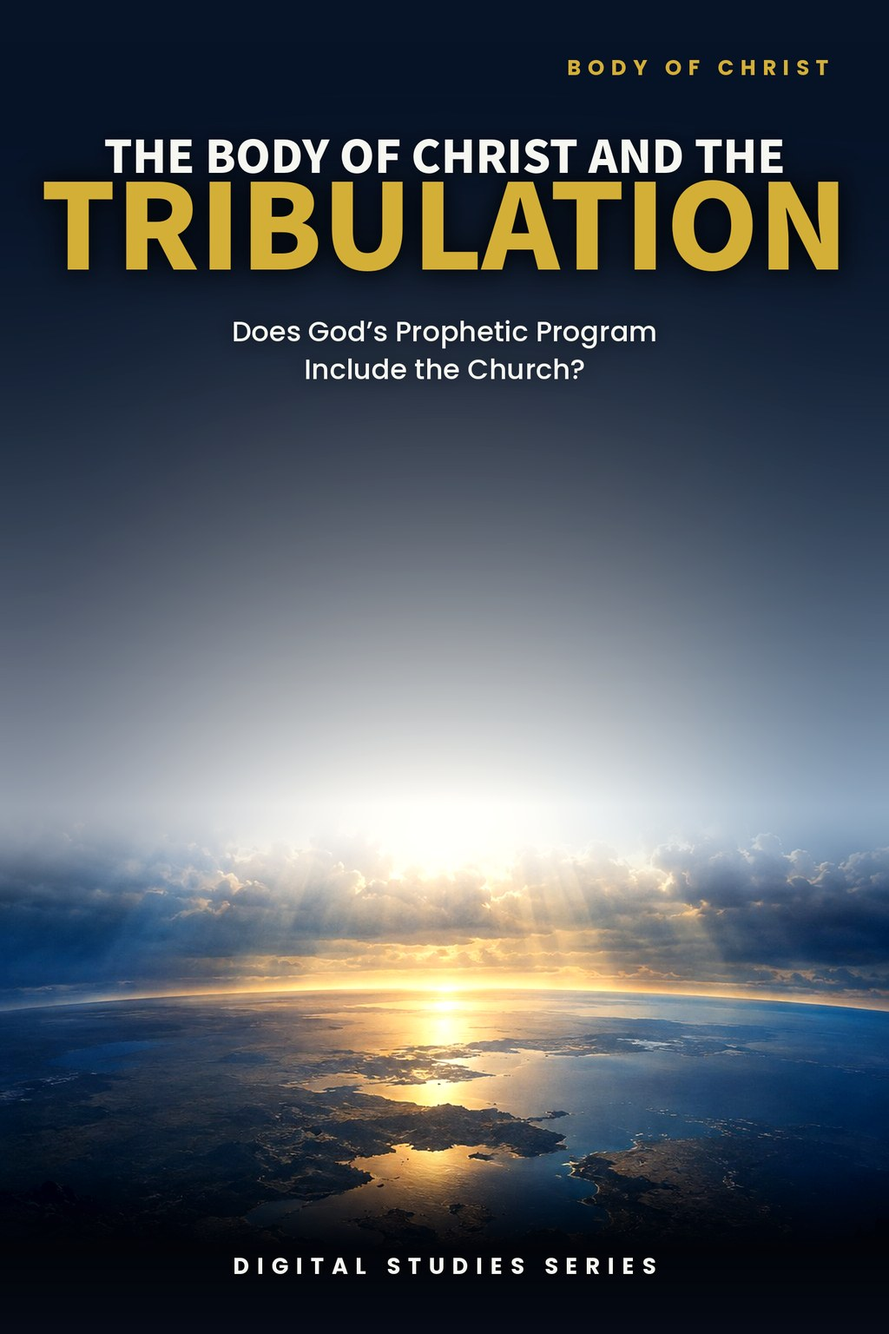
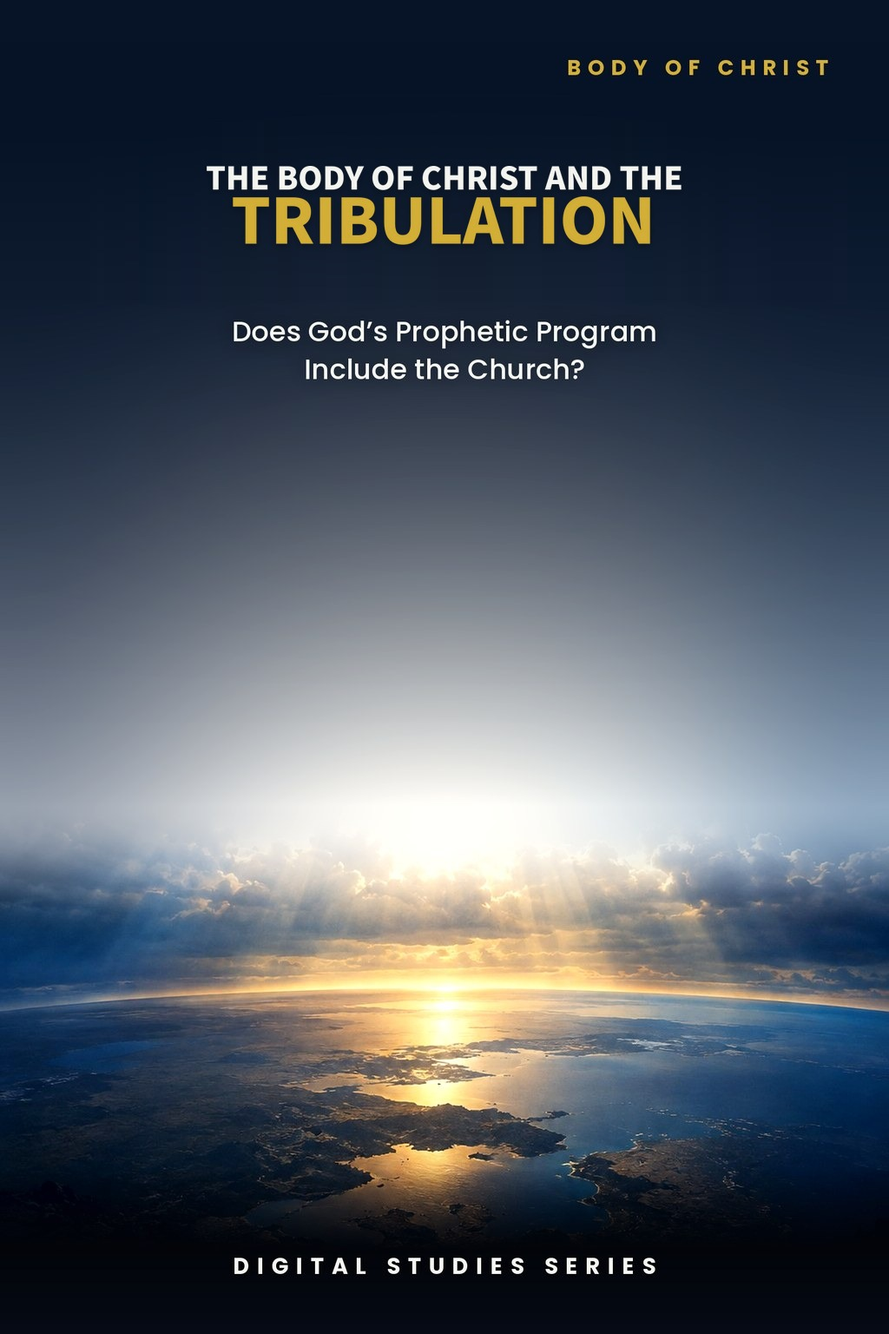
Study 3 retrofit: 16 pages, new cover title, previews 2/3/10, copy wording; trackers v1.32/v1.125
Claude-Session: https://claude.ai/code/session_01KcENxFzE91mCRyTPWhcwnE

Changed region(s): [[0.0312, 0.0938, 0.9688, 0.2188]]

diff --git a/study-03-the-body-of-christ-and-the-tribulation.html b/study-03-the-body-of-christ-and-the-tribulation.html
@@ -22,7 +22,7 @@
 <body class="study-detail-page">
 <header class="site-header"><div class="wrap nav"><a aria-label="Zay-Marie Press home" class="logo" href="index.html"><img alt="Zay-Marie Press" height="238" src="assets/zay-marie-press-logo-hq.png" width="420"/></a><button aria-controls="primary-nav" aria-expanded="false" class="menu-toggle" type="button">MENU</button><nav aria-label="Primary navigation" class="primary-nav" id="primary-nav"><a href="index.html">HOME</a><a href="books.html">BOOKS</a><a href="series.html">SERIES</a><a class="active" aria-current="page" href="digital-studies.html">DIGITAL STUDIES</a><a href="biblical-hermeneutics-course.html">COURSE</a><a href="about.html">ABOUT</a><a href="resources.html">RESOURCES</a><a href="contact.html">CONTACT</a></nav></div></header>
 <main>
-<section class="detail-hero"><div class="wrap detail-hero-grid"><div class="detail-cover"><img src="assets/study-03-cover.jpg" alt="The Body of Christ and the Tribulation — Study 3 cover"/></div><div><div class="eyebrow">STUDY 3 · DIGITAL STUDY</div><h1>The Body of Christ and the Tribulation</h1><p class="detail-subtitle">Does God’s Prophetic Program Include the Church?</p><p class="detail-kicker">A Biblical Examination of Programmatic Identity, Prophetic Wrath, and the Body’s Heavenly Hope</p><p class="detail-copy">Examine Israel’s future prophetic Tribulation alongside the Mystery concerning the Body of Christ revealed through Paul. This study establishes the identity of Daniel’s seventieth week, Jacob’s Trouble, and the Day of the Lord before tracing the Body’s gathering, deliverance from coming wrath, heavenly calling, and place within the Acts Overlap framework.</p><div class="detail-buyline"><span class="detail-price">$5.99</span><span class="detail-format">Digital PDF</span><span class="detail-button pending" aria-disabled="true">Get the Study</span></div></div></div></section>
+<section class="detail-hero"><div class="wrap detail-hero-grid"><div class="detail-cover"><img src="assets/study-03-cover.jpg" alt="The Body of Christ and the Tribulation — Study 3 cover"/></div><div><div class="eyebrow">STUDY 3 · DIGITAL STUDY</div><h1>The Body of Christ and the Tribulation</h1><p class="detail-subtitle">Does God’s Prophetic Program Include the Church?</p><p class="detail-kicker">A Biblical Examination of Programmatic Identity, Prophetic Wrath, and the Body’s Heavenly Hope</p><p class="detail-copy">Examine Israel’s future prophetic Tribulation alongside the Mystery concerning the Body of Christ revealed through Paul. This study establishes the identity of Daniel’s seventieth week, Jacob’s Trouble, and the Day of the Lord before tracing the Body’s gathering, deliverance from coming wrath, heavenly calling, and place within the Acts Overlap.</p><div class="detail-buyline"><span class="detail-price">$5.99</span><span class="detail-format">Digital PDF</span><span class="detail-button pending" aria-disabled="true">Get the Study</span></div></div></div></section>
 <section class="detail-section"><div class="wrap"><div class="eyebrow">ABOUT THIS STUDY</div><h2>Does the Tribulation Belong to the Body of Christ?</h2><p class="lead">The Tribulation question is often approached first as a question of timing: before, during, or after. This study begins one step earlier by asking whom Scripture identifies with the coming prophetic period and to which revealed program it belongs.</p><p class="lead">Daniel’s seventieth week, Jacob’s Trouble, the Day of the Lord, Matthew 24, and Revelation are examined in their prophetic setting. The study then turns to Paul’s revelation concerning the Body’s gathering, its deliverance from coming wrath, its heavenly calling, and the Acts 9–28 overlap to determine how those truths relate without merging Prophecy and Mystery.</p><p class="lead">This is not a study of Daniel’s seventieth week itself, which Study 10 establishes in its own right, nor of the “one taken, one left” scene in Matthew 24 and Luke 17, which Study 29 examines on its own terms. Its task is narrower: to ask which revealed program — Israel’s Prophecy or the Body’s Mystery — actually governs the coming Tribulation, and whether the Body’s own hope belongs inside that period at all.</p><div class="study-distinction"><h3>How These Studies Relate</h3><p>Study 3 asks whether the Body of Christ belongs in Israel’s coming prophetic Tribulation.</p><p><a href="study-10-daniels-seventieth-week.html">Study 10 — Daniel’s Seventieth Week</a> Establish from Daniel 9 whose people and city the seventieth week concerns; that starting point sharpens the question of whether the Body is the subject of that prophetic period.</p><p><a href="study-29-one-taken-and-the-other-left.html">Study 29 — One Taken and the Other Left</a> Test a frequently cited Tribulation passage in Matthew 24 and Luke 17. Its separation scene can then be interpreted without assuming it describes the Body’s gathering.</p><p class="connection-guide-link"><a href="study-connections.html#study-03">Explore the full connection guide for Study 3 →</a></p></div></div></section>
 <section class="detail-section soft"><div class="wrap"><div class="eyebrow">WHAT YOU’LL STUDY</div><h2>Establish Identity Before Constructing the Timeline</h2><div class="study-points">
 <div class="study-point"><h3>Israel’s Future Prophetic Tribulation</h3><p>Distinguish ordinary Christian suffering from Daniel’s seventieth week, Jacob’s Trouble, the Day of the Lord, and the great Tribulation.</p></div>
@@ -30,7 +30,7 @@
 <div class="study-point"><h3>The Body Is Not Appointed to Wrath</h3><p>Follow Paul’s cumulative argument in 1 Thessalonians: waiting for the Son, gathering to Christ, the Day of the Lord, and deliverance from coming wrath.</p></div>
 <div class="study-point"><h3>The Gathering of the Body</h3><p>Work through 1 Thessalonians 4 and 2 Thessalonians 2 carefully, distinguishing explicit statements from disputed interpretive details.</p></div>
 <div class="study-point"><h3>Rapture &amp; Prophetic Second Coming</h3><p>Compare the Body’s gathering with prophetic Second Coming passages while preserving their distinct audiences, movements, purposes, and revelatory settings.</p></div>
-<div class="study-point"><h3>Acts Overlap &amp; Prophetic Resumption</h3><p>See how Prophecy and Mystery operate distinctly and concurrently during Acts 9–28 and why suspension at Acts 28 allows Israel’s prophetic program to resume.</p></div>
+<div class="study-point"><h3>Acts Overlap &amp; Prophetic Resumption</h3><p>See how Prophecy and Mystery operate distinctly and concurrently during Acts 9–28 and why the national judicial suspension at Acts 28 allows Israel’s prophetic program to resume.</p></div>
 </div></div></section>
 <section class="detail-section cream"><div class="wrap"><div class="eyebrow">KEY SCRIPTURES</div><h2>Examine the Passages for Yourself</h2><div class="scripture-grid">
 <div class="scripture-card"><h3>Daniel 9:24–27</h3><p>Assigns the seventy weeks to Daniel’s people and holy city, establishing Israel and Jerusalem as the prophetic setting.</p></div>
@@ -46,19 +46,19 @@
 <section class="detail-section soft"><div class="wrap"><div class="eyebrow">A LOOK INSIDE</div><h2>Preview the Study Before You Purchase</h2><p class="preview-instruction">Click any page to enlarge it for reading.</p><div class="preview-grid">
 <div class="preview-card"><a class="preview-image-link" data-preview-lightbox href="assets/study-03-page-2.jpg"><img src="assets/study-03-page-2.jpg" alt="Study 3 interior preview — page 2, Table of Contents"/></a><div class="page-no">Page 2</div><h3>Table of Contents</h3><p>See the full structure of the study, from the introduction through the final synthesis.</p></div>
 <div class="preview-card"><a class="preview-image-link" data-preview-lightbox href="assets/study-03-page-3.jpg"><img src="assets/study-03-page-3.jpg" alt="Study 3 interior preview — page 3, What You Will Learn in This Study"/></a><div class="page-no">Page 3</div><h3>What You Will Learn</h3><p>See the study’s learning goals, including the prophetic identity of the Tribulation, Paul’s cumulative Thessalonian argument, the Rapture as Mystery truth, and the Acts Overlap chronology.</p></div>
-<div class="preview-card"><a class="preview-image-link" data-preview-lightbox href="assets/study-03-page-11.jpg"><img src="assets/study-03-page-11.jpg" alt="Study 3 interior preview — page 11, Rapture and Prophetic Second Coming comparison table"/></a><div class="page-no">Page 11</div><h3>Rapture &amp; Prophetic Second Coming</h3><p>Begin the comparison of the Body’s gathering with the prophetic Second Coming while preserving their distinct audiences, movements, purposes, and revelatory settings.</p></div>
+<div class="preview-card"><a class="preview-image-link" data-preview-lightbox href="assets/study-03-page-10.jpg"><img src="assets/study-03-page-10.jpg" alt="Study 3 interior preview — page 10, Rapture and Prophetic Second Coming comparison table"/></a><div class="page-no">Page 10</div><h3>Rapture &amp; Prophetic Second Coming</h3><p>Begin the comparison of the Body’s gathering with the prophetic Second Coming while preserving their distinct audiences, movements, purposes, and revelatory settings.</p></div>
 </div></div></section>
 <section class="detail-section"><div class="wrap"><div class="eyebrow">WHAT’S INCLUDED</div><h2>A Focused Study Built for<br/>Understanding and Teaching</h2><div class="includes-grid">
-<div class="include-item"><h3>18-Page In-Depth Biblical Study</h3><p>A focused examination of the Tribulation question built from audience, revelatory setting, programmatic identity, and cumulative biblical evidence.</p></div>
+<div class="include-item"><h3>16-Page In-Depth Biblical Study</h3><p>A focused examination of the Tribulation question built from audience, revelatory setting, programmatic identity, and cumulative biblical evidence.</p></div>
 <div class="include-item"><h3>12 Core Teaching Sections</h3><p>Progress from the identity of the prophetic Tribulation through Paul’s teaching on the Body’s gathering, heavenly hope, and Acts Overlap chronology.</p></div>
 <div class="include-item"><h3>Study Summary &amp; Key Distinctions</h3><p>Retain the controlling distinctions between ordinary suffering and prophetic wrath, programmatic identity and chronology, Mystery and Prophecy, and suspension and cancellation.</p></div>
 <div class="include-item"><h3>Scripture-Tracing Exercise</h3><p>Record audience, event or promise, programmatic setting, and each passage’s contribution before consulting the study’s conclusions.</p></div>
 <div class="include-item"><h3>12 Review &amp; Discussion Questions</h3><p>Test comprehension of Daniel’s timetable, the Day of the Lord, Paul’s gathering passages, the Body’s heavenly calling, and Acts Overlap.</p></div>
-<div class="include-item"><h3>Three-Part Teaching Outline</h3><p>A ready framework for identifying the prophetic period, establishing the Body’s expectation, and keeping the two revealed programs distinct.</p></div>
+<div class="include-item"><h3>Three-Part Teaching Outline</h3><p>A ready outline for identifying the prophetic period, establishing the Body’s expectation, and keeping the two revealed programs distinct.</p></div>
 <div class="include-item"><h3>Six Guided Further-Study Investigations</h3><p>Trace prophetic wrath, Daniel’s people and city, the gathering passages, disputed details, the Body’s heavenly calling, and Acts Overlap chronology.</p></div>
-<div class="include-item"><h3>Final Synthesis Exercise</h3><p>Construct a two- to three-page biblical explanation of why the Acts Overlap framework places the Body outside Israel’s future prophetic Tribulation.</p></div>
+<div class="include-item"><h3>Final Synthesis Exercise</h3><p>Construct a two- to three-page biblical explanation of why the Acts Overlap places the Body outside Israel’s future prophetic Tribulation.</p></div>
 </div></div></section>
-<section class="detail-section cream"><div class="wrap"><div class="final-buy"><div><div class="eyebrow">STUDY 3 · DIGITAL STUDY</div><h2>The Body of Christ and the Tribulation</h2><p>18-page digital PDF · For personal use</p></div><div class="final-offer"><div class="detail-price">$5.99</div><span class="detail-button pending" aria-disabled="true">Get the Study</span></div></div><a class="back-link" href="digital-studies.html">← Back to All Digital Studies</a></div></section>
+<section class="detail-section cream"><div class="wrap"><div class="final-buy"><div><div class="eyebrow">STUDY 3 · DIGITAL STUDY</div><h2>The Body of Christ and the Tribulation</h2><p>16-page digital PDF · For personal use</p></div><div class="final-offer"><div class="detail-price">$5.99</div><span class="detail-button pending" aria-disabled="true">Get the Study</span></div></div><a class="back-link" href="digital-studies.html">← Back to All Digital Studies</a></div></section>
 <section class="study-method-course-bridge"><div class="wrap"><div class="study-method-course-panel"><div><div class="eyebrow">BUILD THE INTERPRETIVE METHOD</div><h2>Want More Than a Focused Study?</h2><p>Digital Studies examine particular biblical subjects and difficult passages. The 40-lesson Biblical Hermeneutics course teaches a complete, repeatable method for establishing meaning in context, determining proper assignment, and making responsible application.</p></div><a class="btn btn-primary" href="biblical-hermeneutics-course.html">BIBLICAL HERMENEUTICS COURSE</a></div></div></section></main><div class="preview-lightbox" id="preview-lightbox" role="dialog" aria-modal="true" aria-label="Enlarged study page preview"><button class="preview-lightbox-close" type="button" aria-label="Close enlarged preview">×</button><img src="" alt=""/><div class="preview-lightbox-hint">Scroll to read the full page · Press Esc or click outside the page to close</div></div>
 <footer class="site-footer"><div class="wrap footer-grid"><div class="footer-about"><h3>Zay-Marie Press</h3><p class="footer-tagline"><em>Where the Bible Means What It Says.</em></p><p>Zay-Marie Press is a Christian theological publisher dedicated to producing doctrinally precise, carefully structured biblical resources that equip pastors, teachers, and serious students with clarity, depth, and Scripture-anchored truth.</p><p><a href="https://zaymariepress.com">zaymariepress.com</a><br/><a href="mailto:info@zaymariepress.com">info@zaymariepress.com</a></p></div><div class="footer-column"><h3>Explore</h3><div class="footer-links-stacked"><a href="books.html">Books</a><br/><a href="series.html">Series</a><br/><a href="biblical-hermeneutics-course.html">Course</a><br/><a href="digital-studies.html">Digital Studies</a><br/><a href="resources.html">Resources</a><br/><a href="bible-book-summaries.html">Bible Book Summaries</a><br/><a href="doctrinal-packets.html">Doctrinal Packets</a><br/><a href="historical-drift.html">Historical Drift</a><br/><a href="about.html">About</a><br/><a href="contact.html">Contact</a></div></div><div class="footer-column"><h3>Reader Support</h3><div class="footer-links-stacked"><a href="reader-support.html#faq">FAQ</a><br/><a href="reader-support.html#shipping-returns">Shipping &amp; Returns</a><br/><a href="reader-support.html#digital-downloads">Digital Downloads</a><br/><a href="reader-support.html#contact-support">Contact Support</a></div></div><div class="footer-column"><h3>Acts Overlap</h3><p><strong>Acts Overlap Theology Series</strong></p><p><em>Two Distinct Streams. One Overlap.</em></p><p><a href="series.html">Series Overview</a></p></div></div><div class="wrap footer-bottom">© 2026 Zay-Marie Press. All rights reserved.</div></footer>
 <script src="site.js"></script><script>(function(){var box=document.getElementById("preview-lightbox"),img=box.querySelector("img"),close=box.querySelector(".preview-lightbox-close"),hint=box.querySelector(".preview-lightbox-hint"),hintTimer;function shut(){clearTimeout(hintTimer);box.classList.remove("open");hint.classList.remove("fade");document.body.style.overflow="";img.src="";}document.querySelectorAll("[data-preview-lightbox]").forEach(function(a){a.addEventListener("click",function(e){e.preventDefault();clearTimeout(hintTimer);img.src=a.getAttribute("href");img.alt=a.querySelector("img").alt;hint.classList.remove("fade");box.classList.add("open");document.body.style.overflow="hidden";box.scrollTop=0;hintTimer=setTimeout(function(){hint.classList.add("fade");},3000);});});close.addEventListener("click",shut);box.addEventListener("click",function(e){if(e.target===box)shut();});document.addEventListener("keydown",function(e){if(e.key==="Escape"&&box.classList.contains("open"))shut();});})();</script>

diff --git a/site.js b/site.js
@@ -62,7 +62,7 @@ const resourceModal=document.querySelector('#resource-modal'), resourceModalTitl
 if(resourceModal&&resourceModalTriggers.length){const closeResourceModal=()=>{resourceModal.hidden=true;document.body.classList.remove('resource-modal-open');lastResourceTrigger?.focus();};resourceModalTriggers.forEach(trigger=>trigger.addEventListener('click',()=>{lastResourceTrigger=trigger;if(resourceModalTitle)resourceModalTitle.textContent=trigger.dataset.title||'Resource';if(resourceModalDescription)resourceModalDescription.textContent=trigger.dataset.description||'';if(resourceModalLink){resourceModalLink.href=trigger.dataset.href||'#';resourceModalLink.textContent=trigger.dataset.linkText||'OPEN RESOURCE';}resourceModal.hidden=false;document.body.classList.add('resource-modal-open');resourceModalClose?.focus();}));resourceModalClose?.addEventListener('click',closeResourceModal);resourceModal.addEventListener('click',e=>{if(e.target===resourceModal)closeResourceModal();});document.addEventListener('keydown',e=>{if(e.key==='Escape'&&!resourceModal.hidden)closeResourceModal();});}
 
 /* Display the verified final-PDF page count at the primary purchase decision point. */
-const digitalStudyPageCounts={1:17,2:14,3:18,4:18,5:16,6:16,7:16,8:16,9:16,10:23,11:15,12:15,13:19,14:15,15:16,16:16,17:18,18:18,19:16,20:16,21:17,22:16,23:16,24:16,25:17,26:18,27:16,28:16,29:16,30:17,31:19,32:16,33:16,34:16,35:16,36:16,37:16,38:16,39:16,40:16,41:16,42:16,43:16,44:16,45:16,46:16,47:16,48:16,49:17,50:16,51:16,52:16,53:16,54:16,55:16,56:16,57:16,58:16,61:16,62:16,63:16,64:16,65:16,66:16,67:16,68:16,69:16,70:16,71:16};
+const digitalStudyPageCounts={1:17,2:14,3:16,4:18,5:16,6:16,7:16,8:16,9:16,10:23,11:15,12:15,13:19,14:15,15:16,16:16,17:18,18:18,19:16,20:16,21:17,22:16,23:16,24:16,25:17,26:18,27:16,28:16,29:16,30:17,31:19,32:16,33:16,34:16,35:16,36:16,37:16,38:16,39:16,40:16,41:16,42:16,43:16,44:16,45:16,46:16,47:16,48:16,49:17,50:16,51:16,52:16,53:16,54:16,55:16,56:16,57:16,58:16,61:16,62:16,63:16,64:16,65:16,66:16,67:16,68:16,69:16,70:16,71:16};
 const digitalStudyMatch=window.location.pathname.match(/\/study-(\d+)-/i);
 const digitalStudyFormat=document.querySelector('.detail-hero .detail-format');
 if(digitalStudyMatch&&digitalStudyFormat){const studyNumber=Number(digitalStudyMatch[1]),pageCount=digitalStudyPageCounts[studyNumber];if(pageCount)digitalStudyFormat.textContent=`Digital PDF · ${pageCount} Pages`;}

diff --git a/controlling-documents/Doctrinal_Upgrade_Retrofit_Plan_v1.32.md b/controlling-documents/Doctrinal_Upgrade_Retrofit_Plan_v1.32.md
@@ -43,6 +43,7 @@ Working tracker for correcting published studies to the Framework/PAM v1.1, Mast
 | 46 Secure in Christ | Tier 2 read (anchors) | DONE 2026-10-02 (v1.28): interior corrected (16 pp, Roboto; TOC unchanged). 7 'The Framework does not assign…' lines converted to reader-facing forms (passage / letter / Hebrews); Revelation anchor removed (Revelation now assigned; Rev 3:5 row states Revelation belongs wholly to Israel's Prophecy Program, Body absent); 'controlling framework' -> 'governing reading'. No Romans 11, overlap, Acts 28 or synagogue content. Website: preview 11 re-rendered (1041x1562), 'structured framework' -> 'structured outline'. |
 | 53 Redemption | Tier 2 read (anchors, Gal 3, Romans 11) | DONE 2026-10-02 (v1.29): interior corrected (16 pp, Roboto; Study Summary TOC entry 13->12). 12 'The Framework does not assign…' lines converted (passage / letter / Hebrews); Revelation anchor removed; Gal 3:13 anchor replaced by the standing Galatians 3 sentence; Romans 11 four boundaries + triad added (2.4); Revelation 5:9 moved from the Body's group to Israel's group in Guided Further Study (Revelation belongs wholly to Israel's Prophecy Program, Body absent). No overlap/Acts 28/synagogue content. Website: preview 5 re-rendered (1041x1347), 'structured framework' -> 'structured outline'. |
 | 1 The Bride of Christ | Tier 2 read (overlap, Romans 11, Acts 28, Rule 18) | DONE 2026-10-02 (v1.31): interior corrected and rebuilt to the later studies' page geometry (483.85 x 725.75 pt, Study 52 margins and footer, no first-line indents, run-in-lead bold only, Study 52 list spacing, continuous flow) (17 pp, Roboto only; TOC renumbered). Overlap sentence, Rule 17 remnant sentence, Rule 18 (full and short form), Acts 28 'national judicial suspension, not abolition and not a transfer', Romans 11 four boundaries + triad (new 6.1), 'framework' wording removed from reader text, anchors in reader-facing form. Conformance: five boxed callouts incl. Study Goal (sixth demoted to body paragraph), body 6/0/1.08, Heading 1 17 pt / Heading 2 12 pt navy #1B3350, body black Roboto Regular 9 pt, TOC at body spacing with dot leaders, footer added, section 10 imprint (tagline and URL lines removed). Website: 'bridal framework' and 'ready framework' copy replaced; previews 2, 3 and 15 re-rendered at 1041x1562 (Guided Further Study moved from page 13 to 15); site.js 1:17. |
+| 3 The Body of Christ and the Tribulation | Tier 2 read (Acts 28, overlap, Revelation, anchors) | DONE 2026-10-02 (v1.32): interior corrected and rebuilt to the Study 52 page geometry (16 pp, Roboto Regular/Bold/Italic; TOC renumbered). Acts 28 'national judicial suspension, not abolition and not a transfer' in 7 places; standing overlap sentence added; Body-absent-from-Revelation and Gentiles-in-prophetic-scenes lines added; 4 'framework' wordings removed; anchors for Thessalonians and Philippians 3:20; running header removed; standard copyright text. Cover title re-lettered at 70% (TRIBULATION a further 25%) at the publisher's direction. Website: page counts 16, previews 2, 3 and 10 (comparison table moved from page 11), cover replaced, 3 'framework' phrases removed; site.js 3:16. |
 | 39 The Church's Relationship to Israel's Scriptures | Abrahamic/covenant participation + overlap sentence | DONE 2026-10-02 (v1.23): interior corrected (16 pp, Roboto). Withdrawn overlap sentence replaced with the standing sentence and Acts 28 'not abolition and not a transfer' added (§9); 'Gentiles participate spiritually' replaced by the standing Galatians 3 sentence (§8) and 'whole/every covenant term' partial-transfer wording tightened (§8, Study Summary, Key Distinctions table); Romans 11 four-point list and triad added (Introduction); 2 Timothy and Philippians anchors converted and a Colossians anchor added. Sections moved down: TOC updated (7 numbers); 16 pp. Website: previews 2, 3, 5 re-rendered at 1041x1565; site.js 39:16 unchanged |
 | 40 Who Is Abraham's Seed? | Gal 3 / Abrahamic participation (core) | DONE 2026-10-02 (v1.22): interior corrected (16 pp, Roboto). Withdrawn overlap sentence replaced with the standing sentence (Introduction); Romans 11 four-point list and triad added (Introduction); the 'Gentiles participate spiritually / Abrahamic heirship, benefit, inheritance, connection' family replaced with the standing Galatians 3 sentence and plain wording (§6, §8, §10, Study Summary, Key Distinctions table); Romans 4 'participate in promise' and Teaching Outline 'share that benefit' reworded. Sections moved down: TOC updated (Conclusion p10, Scripture-Tracing p11, Guided Further Study p16); 16 pp. Website: preview pages 2, 3 and 4 re-rendered; site.js 40:16 unchanged |
 | 52 Sonship and Adoption | Gal 3 / Abrahamic participation | DONE 2026-10-02 (v1.21): interior corrected (16 pp, Roboto). Withdrawn Galatians 3:26–29 'Gentiles participate spiritually / ethnic distinction is kept' wording replaced by the standing Galatians 3 sentence (3.4) and the 'participation in the seed is spiritual' line reworded; Study 40 pointer parenthetical removed; nine 'The Framework does not assign…' anchors and the Hebrews sentence converted to the reader-facing forms; Romans 11 four-point list and triad added (Group 3). Shorter anchors moved sections up a page, so TOC numbers updated (§5 p9, §6 p11, Conclusion p12, etc.); total still 16 pp. Website: page-2 (TOC) preview re-rendered; pages 3 and 5 unchanged |
@@ -104,6 +105,7 @@ Working tracker for correcting published studies to the Framework/PAM v1.1, Mast
 - v1.27 (2026-10-02): Study 21 retrofit complete (see row). Wave 3 done. Next: Wave 4 starting with Study 46 (source on hand); Studies 14, 18, 43 owe the full Rule 18 sentence.
 - Note (2026-10-02): buy-panel text '[N]-page digital PDF' was stale on Studies 12 (13), 21 (16) and 17 (14); corrected to 15, 17 and 18. Wave 5 sweep: grep every study page for '-page digital PDF', 'N-Page' and 'N Pages' against site.js.
 - v1.28 (2026-10-02): Study 46 retrofit complete (see row). Next: Study 53 (source on hand), then 1, 3, 7, 8, 10, 23, 26, 29, 31, 32, 33.
-- v1.29 (2026-10-02): Study 53 retrofit complete (see row). Next: Wave 4 remainder (3, 7, 8, 10, 23, 26, 29, 31, 32, 33): DOCX needed from the publisher for each.
-- v1.30 (2026-10-02): Study 1 retrofit complete (see row), including the new Master Standard conformance audit (callouts, spacing, TOC, type sizes and colours, footer, imprint) now run in every Step 1. Next: Wave 4 remainder (3, 7, 8, 10, 23, 26, 29, 31, 32, 33): DOCX needed from the publisher for each.
-- v1.31 (2026-10-02): Study 1 rebuilt to the Study 52 page geometry at the publisher's direction (the earlier Letter-size build did not look like the later studies); 17 pp; website step redone (site.js 1:17, counts, previews). Next: Wave 4 remainder (3, 7, 8, 10, 23, 26, 29, 31, 32, 33).
+- v1.29 (2026-10-02): Study 53 retrofit complete (see row). Next: Wave 4 remainder (7, 8, 10, 23, 26, 29, 31, 32, 33): DOCX needed from the publisher for each.
+- v1.30 (2026-10-02): Study 1 retrofit complete (see row), including the new Master Standard conformance audit (callouts, spacing, TOC, type sizes and colours, footer, imprint) now run in every Step 1. Next: Wave 4 remainder (7, 8, 10, 23, 26, 29, 31, 32, 33): DOCX needed from the publisher for each.
+- v1.31 (2026-10-02): Study 1 rebuilt to the Study 52 page geometry at the publisher's direction (the earlier Letter-size build did not look like the later studies); 17 pp; website step redone (site.js 1:17, counts, previews). Next: Wave 4 remainder (7, 8, 10, 23, 26, 29, 31, 32, 33).
+- v1.32 (2026-10-02): Study 3 retrofit complete (see row). Next: Wave 4 remainder (7, 8, 10, 23, 26, 29, 31, 32, 33): DOCX needed from the publisher for each. Wave 5 notes added: Studies 1 and 21 imprints carry an extra 'Scripture quotations are from the King James Version (KJV)' sentence that Study 52 lacks; Study 1's 'Investigation' sub-headings are navy 12 pt where Study 52 uses bold black lines; preview images for 52/53 were cut to 1041x1347 from a taller page and look stretched (recheck).

diff --git a/CLAUDE.md b/CLAUDE.md
@@ -20,7 +20,7 @@ These are kept in the repo at `controlling-documents/` and are the current versi
 - As of v1.47 (publisher directive, 2026-10-02), §6 adds the **Interior Page Geometry and Text Layout Standard**, written into this file in the same pass: every Digital Study, earlier studies included, is set on the later studies' page and layout, not only in Roboto at the same sizes. Page 483.846 × 725.754 pt (9677 × 14515 twips) for cover and interior; cover its own full-bleed section (360 twip margins, no footer); interior margins top 864, bottom 1224, left/right 1031, header 400, footer 475; body left-aligned and flush left with no first-line indent (9 pt black Roboto Regular, 6 pt after, 0 before, 1.08); bold only for run-in leads ("Read:", "Purpose:", "Bring Your Findings Together:") and short emphasis, never a whole paragraph; lists 0 pt after each item and 6 pt after the last, 1.08; callout boxes 7815 twips wide with −100 twip indent; TOC right tab with dot leaders at 7615 twips; only the TOC and What You Will Learn start new pages, later sections flow continuously, and the imprint never stands alone. An earlier study built on any other page size (Letter 612 × 792, 432 × 648) is rebuilt to this geometry when reopened or retrofitted, the page count is recounted and the website updated, and the Heading 1 14 pt / TOC-spacing exemptions for Studies 1–5 and 9 no longer apply to a reopened study. In every study check (Step 1) measure page size, margins, first-line indents, whole-paragraph bold, list spacing, callout width and the TOC tab against Study 52 and report differences. Study 1 is the first earlier study rebuilt to it (17 pages). Preview images are rendered at the page's own aspect (1041×1562 for this page), not stretched.
 **`controlling-documents/Digital_Studies_Relationship_Map_v1.39.md`** — records each study's distinct subject, its related studies, the eight priced six-study collections, the Paul's Missionary Journeys cross-reference map, and the five primary catalog categories (currently version 1.39, covers Studies 1–71; update it as new studies publish, bump the version number, rename the file to match, and log the change in its own version-history table — mirroring the Master Standard's `_vX.Y` filename convention). Check a proposed topic against it before recommending or writing a new study. (2026-09-28: the file was missing from this repo despite this note referencing it; replaced from the publisher's copy and bumped v1.15→v1.25 in the same pass. If this note ever again points to a version not present under `controlling-documents/`, ask the publisher for a copy rather than proceeding without the check.)
 - **`controlling-documents/Digital_Studies_Category_Standard_v1.1.md`** — FINAL and binding (publisher, 2026-10-01): the rules for the five primary catalog categories (Foundations, Israel & Prophecy, Body of Christ, Passages, Doctrinal Themes), the ordered decision procedure for new studies, the precedents, all 71 fixed assignments, and the cover-label form for each category. Read it before placing any card or cover label. Do not ask the publisher where a study belongs; apply the procedure and state the result. Only the publisher changes a ruling; then bump this Standard's version and filename, re-letter the cover, and update the Relationship Map.
-- **`controlling-documents/Doctrinal_Upgrade_Retrofit_Plan_v1.31.md`** — working tracker for retrofitting Studies 1–59 to the 2026-10-02 doctrinal upgrade (Framework/PAM v1.1, Master Standard v1.40, Rules 7–17): withdrawn-wording search keys, impact tiers, waves and the per-study method. Read it before continuing the retrofit in any session; update status, bump the version and rename the file as work proceeds.
+- **`controlling-documents/Doctrinal_Upgrade_Retrofit_Plan_v1.32.md`** — working tracker for retrofitting Studies 1–59 to the 2026-10-02 doctrinal upgrade (Framework/PAM v1.1, Master Standard v1.40, Rules 7–17): withdrawn-wording search keys, impact tiers, waves and the per-study method. Read it before continuing the retrofit in any session; update status, bump the version and rename the file as work proceeds.
 - **`controlling-documents/Doctrinal_Packet_Standard_v0.3.md`** — Doctrinal Packet Standard (DRAFT; §7 approved). Governs the separate Doctrinal Packets product strand (5-page interpretive PDFs per Bible book — a print-friendly cover as page 1 plus 4 content pages, $2.99, KJV, pilot: Genesis, live at `packet-genesis.html`, hub `doctrinal-packets.html`; site pages say "5 Pages", cover styles live in `packets.css`, Old Testament blue and New Testament soft pale green, hub listed in Bible order). **Preview rule (publisher directive, 2026-09-29, packets only):** previews show about one page's worth in two cropped views (top of page 1 through the anchor texts; the chart section) — never the exegesis, architecture, Mystery contrast, logic chain, outline, or closing. Master Standard §16/§17 still govern Digital Studies. Bump the version and rename the file as the Standard is finalized.
 - **`controlling-documents/Preview_Page_Spoiler_Retrofit_Audit_v1.4.md`** — working tracker for the Studies 1–60 preview-page conclusion-spoiler retrofit (see the section below). Read it before continuing that audit in any session; update its status fields and changelog, bump the version, and rename the file to match as the audit proceeds — same `_vX.Y` convention as the other controlling documents. As of v1.1, the website-side half was DONE: all 60 studies' "What You'll Study" text was judged against the rule (methodology documented in the file) and 22 points across 11 studies were rewritten and pushed; an unrelated Study 22 content bug (Study 21's content had leaked into it) was also found and fixed. As of v1.2, the publisher supplied Studies 1–60's interior production PDFs and the interior-PDF half was also surveyed (read-only): 10 studies (37, 41, 45, 47, 48, 49, 51, 52, 53, 54) were found to have at least one interior "What You Will Learn" violation, 50 studies were confirmed compliant, and the orphaned `assets/study-45-sanctification-under-grace.docx` (removed from the repo per the publisher in v1.0) was confirmed word-for-word identical to Study 45's actual production interior PDF content. As of v1.3, the publisher supplied editable DOCX sources for all 10 violating studies; all 15 violating points were rewritten and approved, delivered as corrected final PDFs, and — along the way — a second defect was found and fixed (Studies 47 and 48's source DOCX still had an unintegrated cover placeholder despite both being long-published live with real covers; fixed by inserting the existing approved cover art). The website's "What You Will Learn" preview image (`study-NN-page-3.jpg`) was regenerated from the corrected content for all 10 studies and pushed to `main` (commit `cea1859`), verified against a fresh clone. **The website side of this audit is now fully compliant for all 60 studies.** Outstanding: the publisher's purchasable interior PDF files themselves have corrected versions delivered, but distribution to existing purchasers was decided by the publisher on 2026-09-29: silent swap of the files behind the existing downloads, no reissue notice (recorded in the v1.4 changelog entry; the product files are not in this repo).
 

diff --git a/controlling-documents/Digital_Studies_PAM_Audit_v1.125.md b/controlling-documents/Digital_Studies_PAM_Audit_v1.125.md
@@ -354,3 +354,4 @@ Study 15 PDF not yet supplied. Typography: none of Studies 2, 3, 6, 8 is in EB G
 - v1.122 (2026-10-02): Study 53 retrofitted: 12 'The Framework does not assign…' anchors converted to reader-facing forms; Revelation anchor removed; Gal 3:13 given the standing Galatians 3 sentence; Romans 11 four boundaries + triad added; Revelation 5:9 relocated to Israel's group (Revelation belongs wholly to Israel's Prophecy Program); 16 pp.
 - v1.123 (2026-10-02): Study 1 retrofitted and brought to the Master Standard conformance audit: overlap, remnant, Rule 18, Acts 28 and Romans 11 wording applied; reader-facing anchors; five boxed callouts, TOC, type, footer and imprint conformed; 14 pp.
 - v1.124 (2026-10-02): Study 1 rebuilt to the later studies' page geometry and type treatment (17 pp); site counts and previews updated.
+- v1.125 (2026-10-02): Study 3 retrofitted: Acts 28 standing wording, overlap sentence, Revelation/Gentiles lines, 'framework' removed, Thessalonians and Philippians anchors; rebuilt to the standard page geometry (16 pp); cover title reduced at the publisher's direction.
